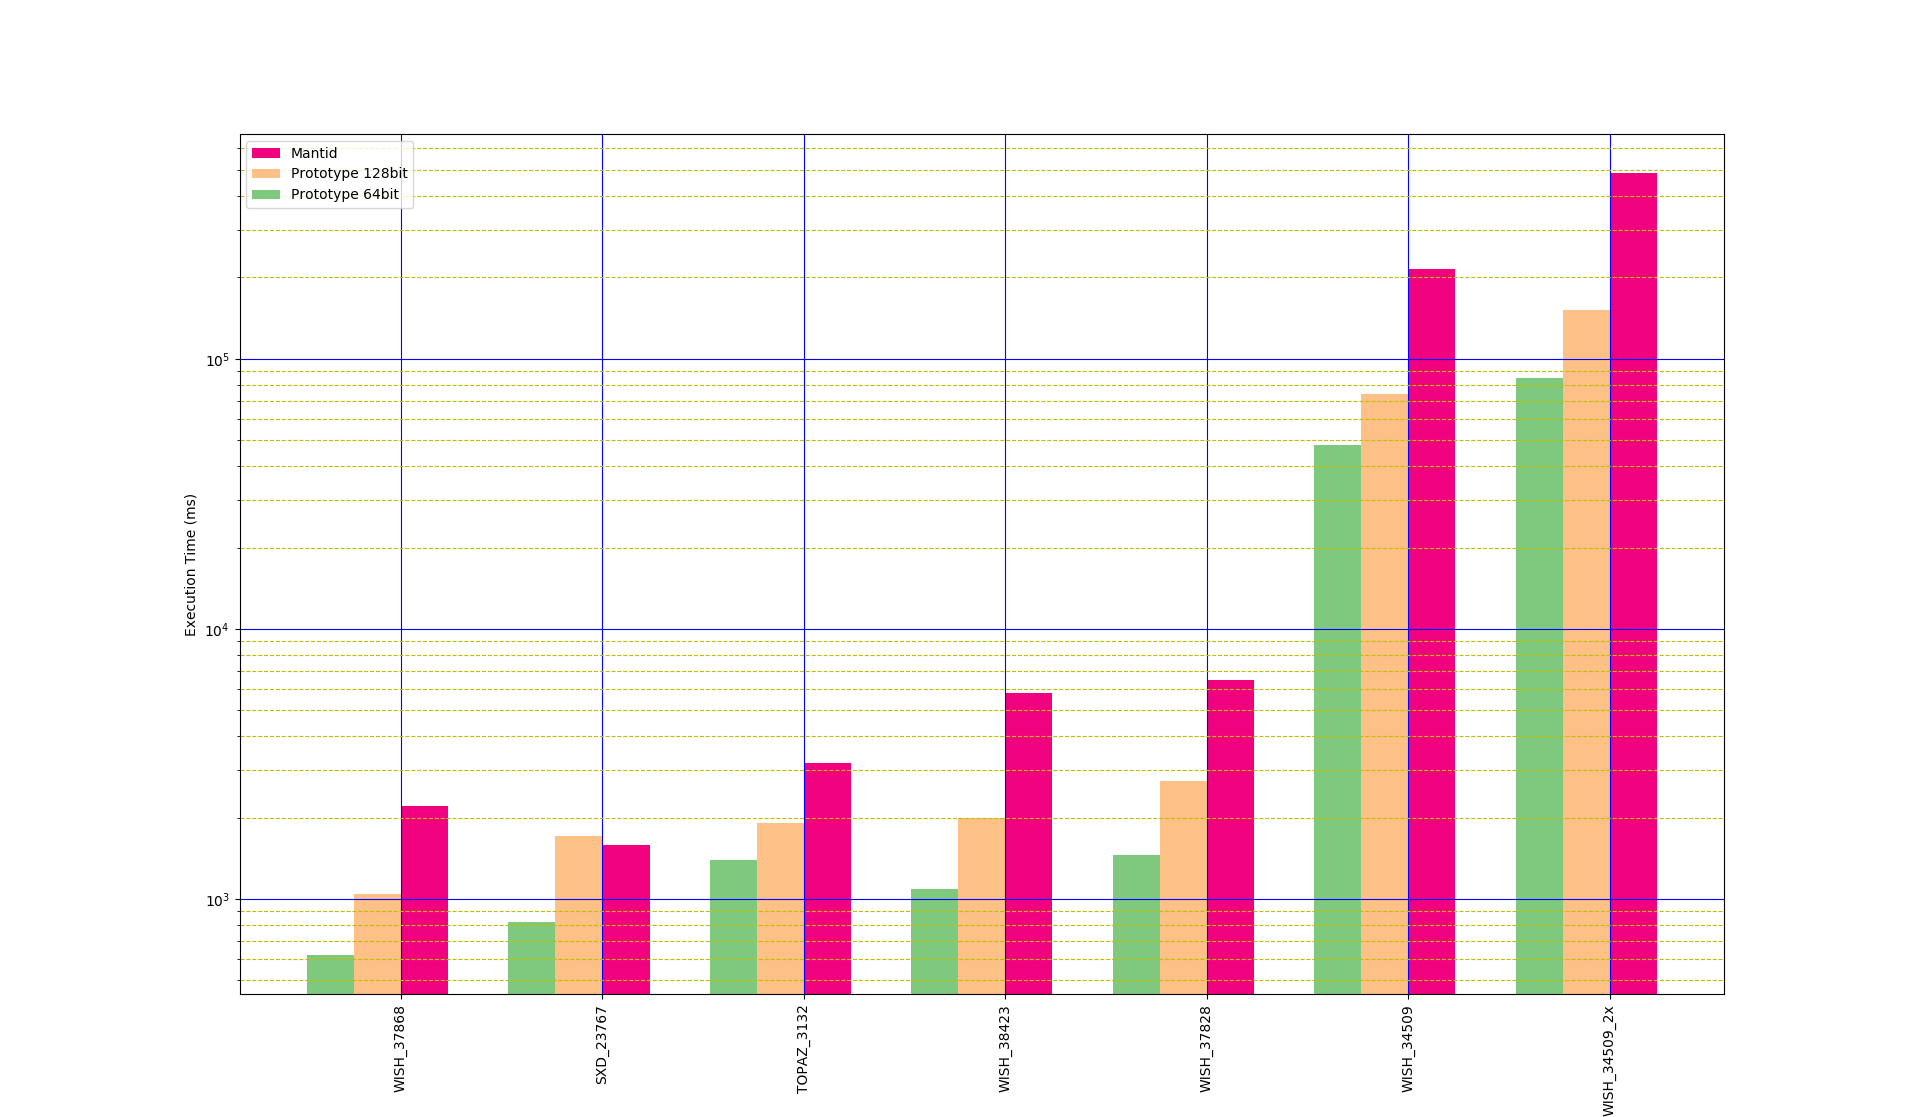
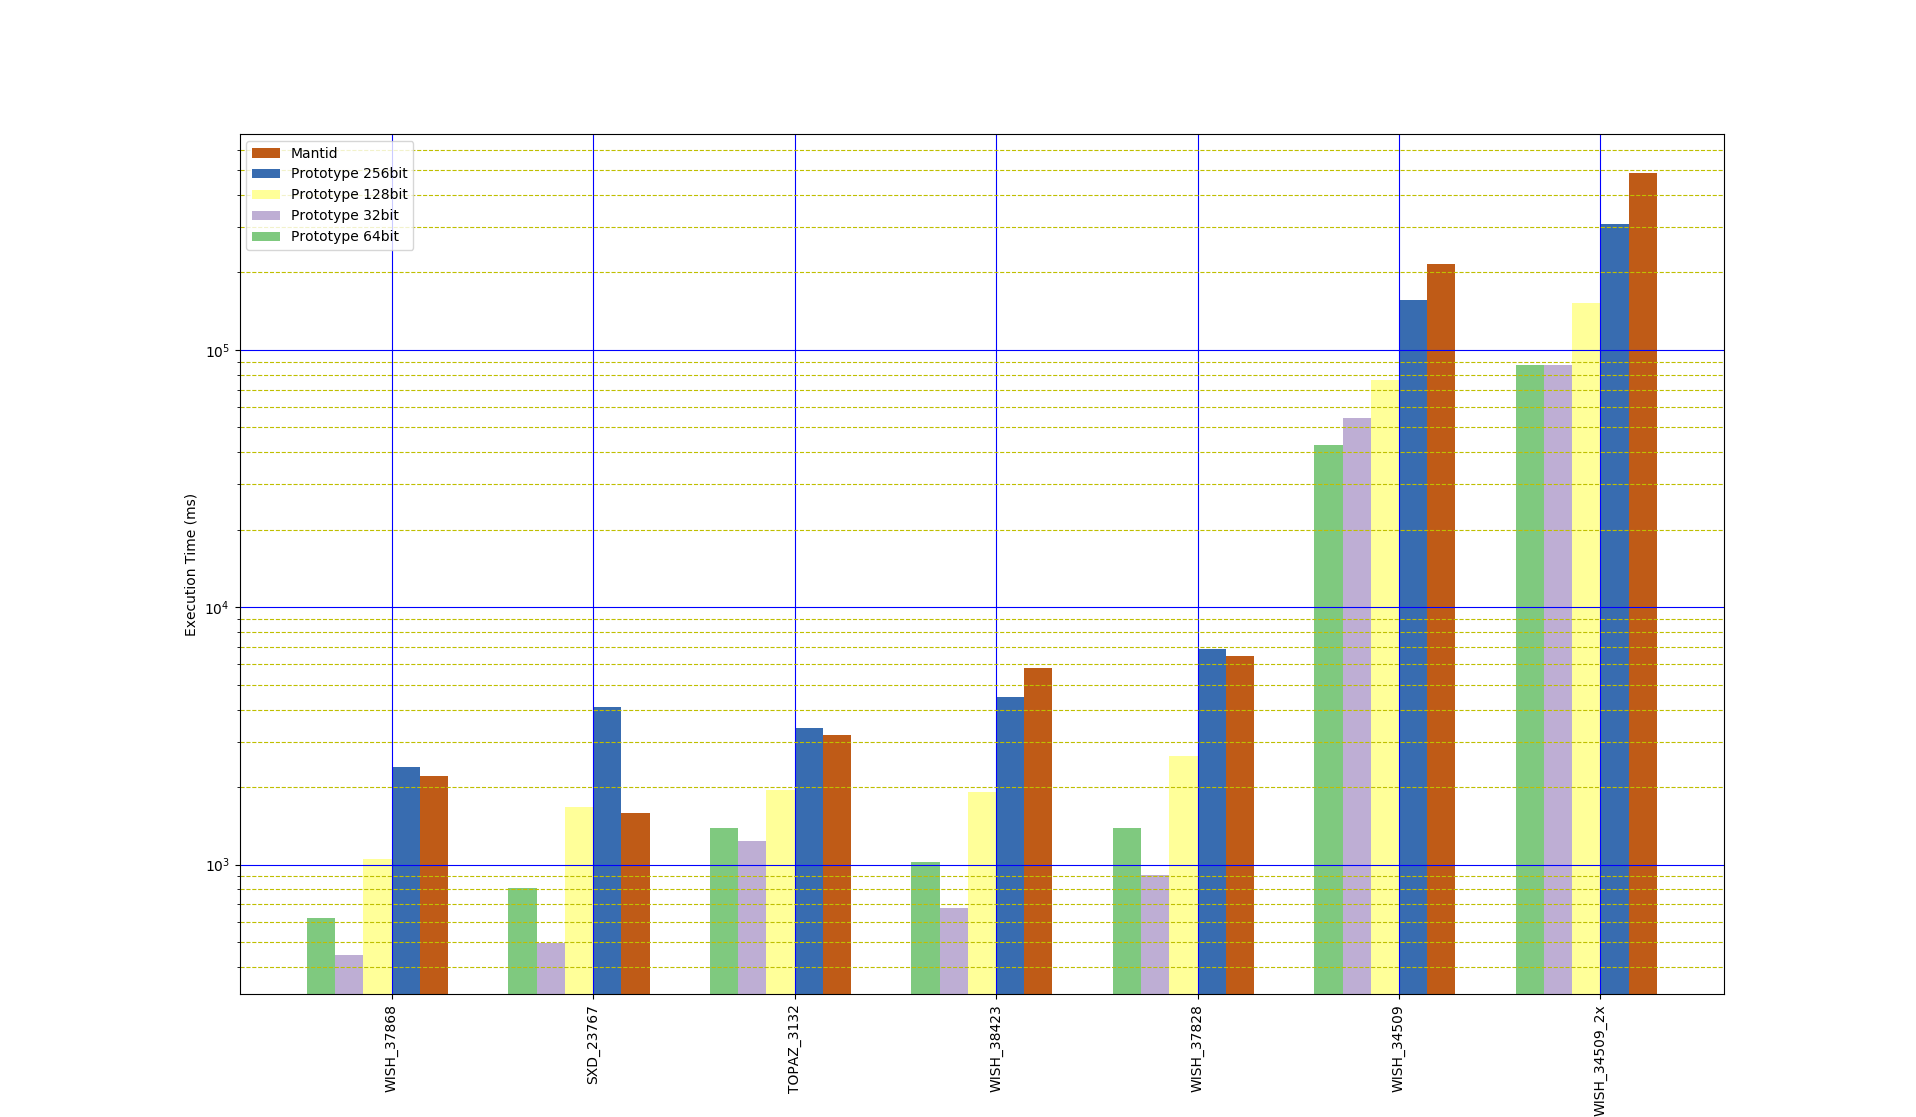
Add new benchmark results to document

Changed region(s): [[0.1232, 0.1522, 0.893, 1.0], [0.1232, 0.1218, 0.2156, 0.2131], [0.4927, 0.9436, 0.5235, 0.974]]

diff --git a/docs/plot_benchmark_results.py b/docs/plot_benchmark_results.py
@@ -56,26 +56,46 @@ def barplot(ax, dpoints):
 
 data = np.array([
     ['Mantid', 'WISH_34509', 214820],
-    ['Prototype 64bit', 'WISH_34509', 48130],
-    ['Prototype 128bit', 'WISH_34509', 74236],
+    ['Prototype 32bit', 'WISH_34509', 54290],
+    ['Prototype 64bit', 'WISH_34509', 42710],
+    ['Prototype 128bit', 'WISH_34509', 76505],
+    ['Prototype 256bit', 'WISH_34509', 155937],
+
     ['Mantid', 'WISH_34509_2x', 486264],
-    ['Prototype 64bit', 'WISH_34509_2x', 84967],
-    ['Prototype 128bit', 'WISH_34509_2x', 151640],
+    ['Prototype 32bit', 'WISH_34509_2x', 87575],
+    ['Prototype 64bit', 'WISH_34509_2x', 87186],
+    ['Prototype 128bit', 'WISH_34509_2x', 152652],
+    ['Prototype 256bit', 'WISH_34509_2x', 309423],
+
     ['Mantid', 'WISH_38423', 5809],
-    ['Prototype 64bit', 'WISH_38423', 1089],
-    ['Prototype 128bit', 'WISH_38423', 1995],
+    ['Prototype 32bit', 'WISH_38423', 676],
+    ['Prototype 64bit', 'WISH_38423', 1024],
+    ['Prototype 128bit', 'WISH_38423', 1917],
+    ['Prototype 256bit', 'WISH_38423', 4495],
+
     ['Mantid', 'WISH_37828', 6451],
-    ['Prototype 64bit', 'WISH_37828', 1461],
-    ['Prototype 128bit', 'WISH_37828', 2747],
+    ['Prototype 32bit', 'WISH_37828', 911],
+    ['Prototype 64bit', 'WISH_37828', 1383],
+    ['Prototype 128bit', 'WISH_37828', 2646],
+    ['Prototype 256bit', 'WISH_37828', 6897],
+
     ['Mantid', 'WISH_37868', 2213],
+    ['Prototype 32bit', 'WISH_37868', 445],
     ['Prototype 64bit', 'WISH_37868', 621],
-    ['Prototype 128bit', 'WISH_37868', 1041],
+    ['Prototype 128bit', 'WISH_37868', 1047],
+    ['Prototype 256bit', 'WISH_37868', 2399],
+
     ['Mantid', 'TOPAZ_3132', 3185],
-    ['Prototype 64bit', 'TOPAZ_3132', 1391],
-    ['Prototype 128bit', 'TOPAZ_3132', 1921],
+    ['Prototype 32bit', 'TOPAZ_3132', 1239],
+    ['Prototype 64bit', 'TOPAZ_3132', 1388],
+    ['Prototype 128bit', 'TOPAZ_3132', 1942],
+    ['Prototype 256bit', 'TOPAZ_3132', 3391],
+
     ['Mantid', 'SXD_23767', 1584],
-    ['Prototype 64bit', 'SXD_23767', 825],
-    ['Prototype 128bit', 'SXD_23767', 1706],
+    ['Prototype 32bit', 'SXD_23767', 497],
+    ['Prototype 64bit', 'SXD_23767', 812],
+    ['Prototype 128bit', 'SXD_23767', 1674],
+    ['Prototype 256bit', 'SXD_23767', 4107],
 ])
 
 fig = plt.figure()

diff --git a/docs/q_conversion.md b/docs/q_conversion.md
@@ -45,7 +45,7 @@ Command:
 
 Output:
 ```
-2018-08-23 08:18:26
+2018-09-07 09:15:32
 Running ./src/benchmark/QConversionBenchmark
 Run on (32 X 3700 MHz CPU s)
 CPU Caches:
@@ -56,20 +56,34 @@ CPU Caches:
 ------------------------------------------------------------------------------------------------------------------------------------------
 Benchmark                                                  Time           CPU Iterations box_structure  md_events q_conversion       sort
 ------------------------------------------------------------------------------------------------------------------------------------------
-BM_QConversion_WISH_34509<uint16_t, uint64_t>          48130 ms       7461 ms         25       12.7169   469.388M      30.4936     4.2343
-BM_QConversion_WISH_34509<uint32_t, uint128_t>         74236 ms      11534 ms         10       25.6299   469.388M      37.0523    10.6647
-BM_QConversion_WISH_34509_2x<uint16_t, uint64_t>       84967 ms      13443 ms         13         24.85   938.776M      50.3328    8.53741
-BM_QConversion_WISH_34509_2x<uint32_t, uint128_t>     151640 ms      23313 ms          8       61.2421   938.776M      71.8354    16.7043
-BM_QConversion_WISH_38423<uint16_t, uint64_t>           1089 ms        600 ms        290      0.318792   15.1266M     0.637013  0.0962045
-BM_QConversion_WISH_38423<uint32_t, uint128_t>          1995 ms        812 ms        206      0.810601   15.1266M     0.949199   0.188244
-BM_QConversion_WISH_37828<uint16_t, uint64_t>           1461 ms        700 ms        229      0.478626   21.5551M     0.801098   0.135775
-BM_QConversion_WISH_37828<uint32_t, uint128_t>          2747 ms        937 ms        185       1.15113   21.5551M       1.2623   0.270921
-BM_QConversion_WISH_37868<uint16_t, uint64_t>            621 ms        414 ms        395      0.137485   7.12883M     0.414525  0.0489385
-BM_QConversion_WISH_37868<uint32_t, uint128_t>          1041 ms        500 ms        347      0.367568   7.12883M     0.565563  0.0822997
-BM_QConversion_TOPAZ_3132<uint16_t, uint64_t>           1391 ms       1069 ms        158      0.217483    9.0473M      1.07949  0.0643299
-BM_QConversion_TOPAZ_3132<uint32_t, uint128_t>          1921 ms       1164 ms        142      0.504137    9.0473M       1.2653   0.113824
-BM_QConversion_SXD_23767<uint16_t, uint64_t>             825 ms        393 ms        435      0.274257   14.3206M      0.43106  0.0880714
-BM_QConversion_SXD_23767<uint32_t, uint128_t>           1706 ms        570 ms        299      0.753159   14.3206M     0.735778   0.174364
+BM_QConversion_WISH_34509<uint8_t, uint32_t>           54290 ms       5100 ms        134       7.74917   469.388M      44.0332    1.78158
+BM_QConversion_WISH_34509<uint16_t, uint64_t>          42710 ms       7412 ms        119        12.012   469.388M      25.8097    4.18067
+BM_QConversion_WISH_34509<uint32_t, uint128_t>         76505 ms      13129 ms         74       29.3902   469.388M      37.2557    8.85433
+BM_QConversion_WISH_34509<uint64_t, uint256_t>        155937 ms      27939 ms         35       77.7357   469.388M      60.2583    16.2917
+BM_QConversion_WISH_34509_2x<uint8_t, uint32_t>        87575 ms       9697 ms         91       15.9132   938.776M      66.4573    3.72813
+BM_QConversion_WISH_34509_2x<uint16_t, uint64_t>       87186 ms      14488 ms         56       29.4277   938.776M      47.2738    8.94684
+BM_QConversion_WISH_34509_2x<uint32_t, uint128_t>     152652 ms      26680 ms         32       63.5278   938.776M      70.7808    16.2892
+BM_QConversion_WISH_34509_2x<uint64_t, uint256_t>     309423 ms     111975 ms         11       154.378   938.776M      119.956     32.458
+BM_QConversion_WISH_38423<uint8_t, uint32_t>             676 ms        444 ms       1902       0.16447   15.1266M     0.428759  0.0604724
+BM_QConversion_WISH_38423<uint16_t, uint64_t>           1024 ms        546 ms       1551      0.305405   15.1266M     0.590429     0.1016
+BM_QConversion_WISH_38423<uint32_t, uint128_t>          1917 ms        750 ms       1126      0.797096   15.1266M       0.8988   0.184287
+BM_QConversion_WISH_38423<uint64_t, uint256_t>          4495 ms       1238 ms        711       2.39661   15.1266M      1.67321    0.37245
+BM_QConversion_WISH_37828<uint8_t, uint32_t>             911 ms        523 ms       1621      0.254508   21.5551M     0.548894  0.0769294
+BM_QConversion_WISH_37828<uint16_t, uint64_t>           1383 ms        647 ms       1322      0.428129   21.5551M     0.775506   0.143844
+BM_QConversion_WISH_37828<uint32_t, uint128_t>          2646 ms        912 ms        868       1.10838   21.5551M      1.22068   0.271042
+BM_QConversion_WISH_37828<uint64_t, uint256_t>          6897 ms       1371 ms        643       3.26455   21.5551M      2.99088   0.574269
+BM_QConversion_WISH_37868<uint8_t, uint32_t>             445 ms        346 ms       2430     0.0747615   7.12883M     0.319725  0.0365689
+BM_QConversion_WISH_37868<uint16_t, uint64_t>            602 ms        397 ms       2126      0.142938   7.12883M     0.391129   0.052382
+BM_QConversion_WISH_37868<uint32_t, uint128_t>          1047 ms        510 ms       1680      0.387877   7.12883M     0.553058  0.0864097
+BM_QConversion_WISH_37868<uint64_t, uint256_t>          2399 ms        601 ms       1333       1.08678   7.12883M      1.11325   0.170448
+BM_QConversion_TOPAZ_3132<uint8_t, uint32_t>            1239 ms       1038 ms        868      0.139032    9.0473M      1.02354   0.054263
+BM_QConversion_TOPAZ_3132<uint16_t, uint64_t>           1388 ms       1048 ms        790      0.219784    9.0473M      1.07745  0.0661694
+BM_QConversion_TOPAZ_3132<uint32_t, uint128_t>          1942 ms       1193 ms        700      0.514687    9.0473M       1.2817   0.115007
+BM_QConversion_TOPAZ_3132<uint64_t, uint256_t>          3391 ms       1405 ms        593       1.38127    9.0473M      1.74924   0.220363
+BM_QConversion_SXD_23767<uint8_t, uint32_t>              497 ms        281 ms       2980      0.142586   14.3206M     0.270753  0.0591994
+BM_QConversion_SXD_23767<uint16_t, uint64_t>             812 ms        375 ms       2269      0.272478   14.3206M     0.418178  0.0932486
+BM_QConversion_SXD_23767<uint32_t, uint128_t>           1674 ms        563 ms       1503      0.748064   14.3206M     0.713701   0.174947
+BM_QConversion_SXD_23767<uint64_t, uint256_t>           4107 ms       1097 ms        756       2.26912   14.3206M      1.43561    0.35243
 ```
 
 ### Mantid
